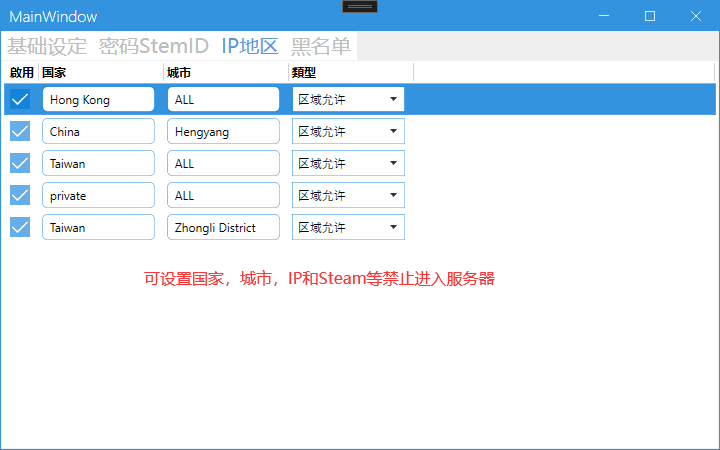
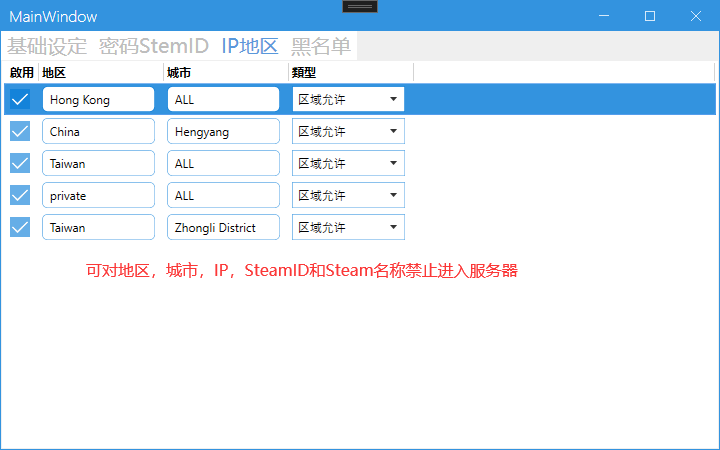
可对Steam名称做黑名单

Changed region(s): [[0.1222, 0.56, 0.7333, 0.6533], [0.0611, 0.1244, 0.0917, 0.1867]]

diff --git a/PalwordAuthorize/Pages/AccountSettingPage.xaml b/PalwordAuthorize/Pages/AccountSettingPage.xaml
@@ -117,7 +117,7 @@
                                     </DataTemplate>
                                 </GridViewColumn.CellTemplate>
                             </GridViewColumn>
-                            <GridViewColumn Width="125" Header="国家">
+                            <GridViewColumn Width="125" Header="地区">
                                 <GridViewColumn.CellTemplate>
                                     <DataTemplate>
                                         <TextBox Text="{Binding Country}" />
@@ -144,17 +144,6 @@
             </TabItem>
             <TabItem Header="黑名单">
                 <ListView x:Name="uiBlackList" ScrollViewer.HorizontalScrollBarVisibility ="Auto" ScrollViewer.VerticalScrollBarVisibility="Auto" IsSynchronizedWithCurrentItem="True" >
-                    <ListView.Resources>
-                        <ObjectDataProvider
-                                        x:Key="EnumCountryCheckType"
-                                        MethodName="GetValues"
-                                        ObjectType="{x:Type mscorlib:Enum}">
-                            <ObjectDataProvider.MethodParameters>
-                                <x:Type TypeName="ETSystem:ECountryCheckType">
-                                </x:Type>
-                            </ObjectDataProvider.MethodParameters>
-                        </ObjectDataProvider>
-                    </ListView.Resources>
                     <ListView.ContextMenu>
                         <ContextMenu>
                             <MenuItem x:Name="mi_BlackList_add" Header="新增" Click="mi_BlackList_add_Click"/>
@@ -170,7 +159,7 @@
                                     </DataTemplate>
                                 </GridViewColumn.CellTemplate>
                             </GridViewColumn>
-                            <GridViewColumn Width="175" Header="SteamID或IP">
+                            <GridViewColumn Width="175" Header="IP或SteamID或用户名">
                                 <GridViewColumn.CellTemplate>
                                     <DataTemplate>
                                         <TextBox Text="{Binding Text}" />

diff --git a/PalwordAuthorize/Mudebug/HttpServer.cs b/PalwordAuthorize/Mudebug/HttpServer.cs
@@ -100,39 +100,45 @@ namespace ET
                         return BuildFail(RemoteAddress, -1).ToString();
                     }
 
-
+                    //{"Parameter":"?ServerPassword=1111111111?Name=Noob#initgame","MessageType":5,"ServerName":"0","Pad_1":29,"ClientType":"STEAM","RemoteAddress":"127.0.0.1:62077","SteamID":"076561197960287900"} 
                     FBitReader fbr = new FBitReader(hexBuffer);
                     fbr.Pos = 8;
                     var ServerName = fbr.ReadString();
                     var Parameter = fbr.ReadString();
                     var SteamID = fbr.ReadUniqueNetId();
                     var ClientType = fbr.ReadString();
+                    string userPassword = ExtractParameter(Parameter, "ServerPassword");
+                    string userName = ExtractParameter(Parameter, "Name");
                     IPData ipData = null;
 
 
-                    var blacklist = MainConfig.Instance.BlackList.FirstOrDefault(t => t.Enable && (t.Text == SteamID || t.Text == ip_data[0]));
+                    var blacklist = MainConfig.Instance.BlackList.FirstOrDefault(t => t.Enable && (t.Text == SteamID || t.Text == ip_data[0] || t.Text == userName));
                     if (blacklist != null)
                     {
-                        Log.Info($"该用户是黑名单:{SteamID} {ip_data[0]}");
+                        Log.Info($"该用户是黑名单:{SteamID} [{userName}] {ip_data[0]}");
                         return BuildFail(RemoteAddress, -2).ToString();
                     }
 
                     if (MainConfig.Instance.EnableCountryCheck)
                     {
                         ipData = await IPCountryPool.Instance.GetCountry(ip_data[0]);
+                        if (ipData == null)
+                        {
+                            Log.Info($"获取IP信息失败:{ip_data[0]} {SteamID} [{userName}]");
+                            return BuildFail(RemoteAddress, -2).ToString();
+                        }
                         if (!IPCheck(ipData))
                         {
-                            Log.Info($"用户IP被禁止:{RemoteAddress} [{SteamID}] [{ipData?.Country}][{ipData?.City}]");
+                            Log.Info($"用户IP被禁止:{ip_data[0]} {SteamID} [{userName}] [{ipData?.Country}][{ipData?.City}]");
                             return BuildFail(RemoteAddress, -2).ToString();
                         }
                     }
                     PasswordUserData p_data = null;
                     if (MainConfig.Instance.EnablePasswordUser)
                     {
-                        string userPassword = ExtractParameter(Parameter, "ServerPassword");
                         if (userPassword == null)
                         {
-                            Log.Info($"用户未输入服务器密码:{RemoteAddress}");
+                            Log.Info($"用户未输入服务器密码:{ip_data[0]} {SteamID} [{userName}] [{ipData?.Country}][{ipData?.City}]");
                             return BuildFail(RemoteAddress, -3).ToString();
                         }
                         p_data = MainConfig.Instance.PasswordUserList.FirstOrDefault(t => t.Enable && t.Password == userPassword);
@@ -142,17 +148,17 @@ namespace ET
                             {
                                 if ((userPassword.Length < MainConfig.Instance.AutoUserCreatePasswordLenth)&&(userPassword.Length > 24))
                                 {
-                                    Log.Info($"密码长度不符不予创建:{SteamID} {RemoteAddress} [{userPassword}]");
+                                    Log.Info($"密码长度不符不予创建:{SteamID} {ip_data[0]} [{userName}] [{userPassword}]");
                                     return BuildFail(RemoteAddress, -4).ToString();
                                 }
                                 p_data = MainConfig.Instance.PasswordUserList.FirstOrDefault(t=>t.SteamID == SteamID);
                                 if (p_data != null)
                                 {
-                                    Log.Info($"用户SteamID已存在不予创建:{SteamID} {RemoteAddress} [{userPassword}]");
+                                    Log.Info($"用户SteamID已存在不予创建:{SteamID} {ip_data[0]} [{userName}] [{userPassword}]");
                                     return BuildFail(RemoteAddress, -4).ToString();
                                 }
 
-                                Log.Info($"自动创建用户:{SteamID} {RemoteAddress} [{userPassword}]");
+                                Log.Info($"自动创建用户:{SteamID} {ip_data[0]} [{userName}] [{userPassword}]");
                                 await MainWindow.Ptr.Dispatcher.BeginInvoke(() =>
                                 {
                                     p_data = new PasswordUserData() { Enable = true, Password = userPassword, SteamID = SteamID, Remark = $"AutoCraete {DateTime.Now} {RemoteAddress}" };
@@ -161,7 +167,7 @@ namespace ET
                             }
                             else
                             {
-                                Log.Info($"用户输入密码不存在:{RemoteAddress} [{userPassword}]");
+                                Log.Info($"用户输入密码不存在:{ip_data[0]} [{userName}] [{userPassword}]");
                                 return BuildFail(RemoteAddress, -4).ToString();
                             }
                         }
@@ -170,7 +176,7 @@ namespace ET
                         {
                             if (p_data.ExpireTime < DateTime.Now)
                             {
-                                Log.Info($"用户输入密码已过期:{RemoteAddress} [{userPassword}] {p_data.ExpireTime}");
+                                Log.Info($"用户输入密码已过期:{p_data.SteamID} [{userName}][{userPassword}] {p_data.ExpireTime} {ip_data[0]}");
                                 return BuildFail(RemoteAddress, -5).ToString();
                             }
                         }
@@ -179,12 +185,12 @@ namespace ET
                     
                     if (p_data != null)
                     {
-                        Log.Info($"登录成功:{RemoteAddress} [{p_data.SteamID}] [{ipData?.Country}][{ipData?.City}]");
+                        Log.Info($"登录成功:[{p_data.SteamID}] [{userName}] [{ipData?.Country}][{ipData?.City}] {ip_data[0]}");
                         return BuildSuccess(RemoteAddress, fbr, p_data.SteamID).ToString();
                     }
                     else
                     {
-                        Log.Info($"登录成功:{RemoteAddress} [{SteamID}] [{ipData?.Country}][{ipData?.City}]");
+                        Log.Info($"登录成功:[{SteamID}] [{userName}] [{ipData?.Country}][{ipData?.City}] {ip_data[0]}");
                         return BuildSuccess(RemoteAddress, fbr, SteamID).ToString();
                     }
                 }

diff --git a/PalwordAuthorize/Mudebug/IPCountryPool.cs b/PalwordAuthorize/Mudebug/IPCountryPool.cs
@@ -62,12 +62,15 @@ namespace ET
                 return data;
             }else
             {
-                var message = retJson["message"].ToString();
-                if (message == "private range" || ip == "127.0.0.1")
+                if (retJson.ContainsKey("message"))
                 {
-                    Log.Info($"ip:{ip} country:private");
-                    var data = PushHistoryCountry(hash, "private", "ALL");
-                    return data;
+                    var message = retJson["message"].ToString();
+                    if (message == "private range" || ip == "127.0.0.1")
+                    {
+                        Log.Info($"ip:{ip} country:private");
+                        var data = PushHistoryCountry(hash, "private", "ALL");
+                        return data;
+                    }
                 }
             }
             return null;

diff --git a/README.md b/README.md
@@ -12,9 +12,8 @@
 可对密码设置过期时间，如果超过设定时间既无法登录角色<br>
 既不需要关闭客户端就能切换帐号，也可作为SteamID授权用<br>
 
-
-
-同时 可以禁止或者只允许某个国家的IP进入服务器<br>
+可禁止或者只允许某个地区，城市的IP进入服务器<br>
+可对SteamID 和 Steam名称禁止进入服务器<br>
 
 ## 使用方法
 
